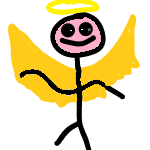
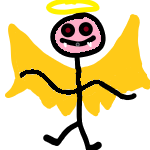
adding animation for "Holy-Vampirelord of Doom"

diff --git a/bit-sim/main.cpp b/bit-sim/main.cpp
@@ -1,21 +1,40 @@
 #include <SFML/Graphics.hpp>
 #include <iostream>
 
+#include "animation.h"
+
 int main()
 {
+	//make objkts
 	sf::RenderWindow window(sf::VideoMode(1000, 1000), "SFML works!");
-	sf::RectangleShape player(sf::Vector2f(100.0f,100.0f));
-	player.setOrigin(50.0f, 50.0f);
+	sf::RectangleShape player(sf::Vector2f(150.0f,150.0f));
 	sf::Sprite sprite;
 	sf::Texture playerTexture;
 	sf::Texture backgroundTexture;
+	sf::Clock clock;
+	animation animation(&playerTexture, sf::Vector2u(3, 3), 0.2f);
+	
+
+	//set spawn and spwn on click pos
+	player.setOrigin(75.0f, 75.0f);
+	player.setPosition(500.0f, 500.0f);
+	//load texture files
 	backgroundTexture.loadFromFile("background.png");
-	playerTexture.loadFromFile("test.png");
+	playerTexture.loadFromFile("aniMatiOn.png");
+	
+
+	//set textures in objct
 	player.setTexture(&playerTexture);
 	sprite.setTexture(backgroundTexture);
 
+	//float to save time
+	float deltaTime = 0.0f;
+	
+
+
 	while (window.isOpen())
 	{
+		deltaTime = clock.restart().asSeconds();
 		sf::Event evnt;
 
 		while (window.pollEvent(evnt))
@@ -51,6 +70,8 @@ int main()
 			sf::Vector2i mousePos = sf::Mouse::getPosition(window);
 			player.setPosition((float)mousePos.x, ((float)mousePos.y));
 		}
+		animation.Update(0, deltaTime);
+		player.setTextureRect(animation.uvRect);
 
 		window.clear();
 		window.draw(sprite);

diff --git a/bit-sim/animation.cpp b/bit-sim/animation.cpp
@@ -1,0 +1,36 @@
+#include "animation.h"
+
+
+	animation::animation(sf::Texture* texture, sf::Vector2u imageCount, float switchTime) {
+		this->imageCount = imageCount;
+		this->switchTime = switchTime;
+		totalTime = 0.0f;
+		currentImage.x = 3;
+
+		uvRect.width = 150;
+		uvRect.height = 150;
+	}
+
+
+	animation:: ~animation() {
+	
+	}
+
+	void animation::Update(int row, float deltaTime)
+	{
+		currentImage.y = row;
+		totalTime += deltaTime;
+
+		if (totalTime >= switchTime) {
+			totalTime -= switchTime;
+			currentImage.x++;
+
+			if(currentImage.x >= imageCount.x) {
+				currentImage.x = 0;
+			}
+
+		}
+		uvRect.left = currentImage.x * uvRect.width;
+		uvRect.top = 0;
+	}
+

diff --git a/bit-sim/animation.h b/bit-sim/animation.h
@@ -1,0 +1,23 @@
+#pragma once
+#include <SFML/Graphics.hpp>
+#include<iostream>
+class animation
+{
+public:
+	animation(sf::Texture* texture, sf::Vector2u imageCount, float switchTime);
+	~animation();
+
+	void Update(int row, float deltaTime);
+
+
+public:
+	sf::IntRect uvRect;
+private:
+	sf::Vector2u imageCount;
+	sf::Vector2u currentImage;
+	
+	float totalTime;
+	float switchTime;
+
+};
+
